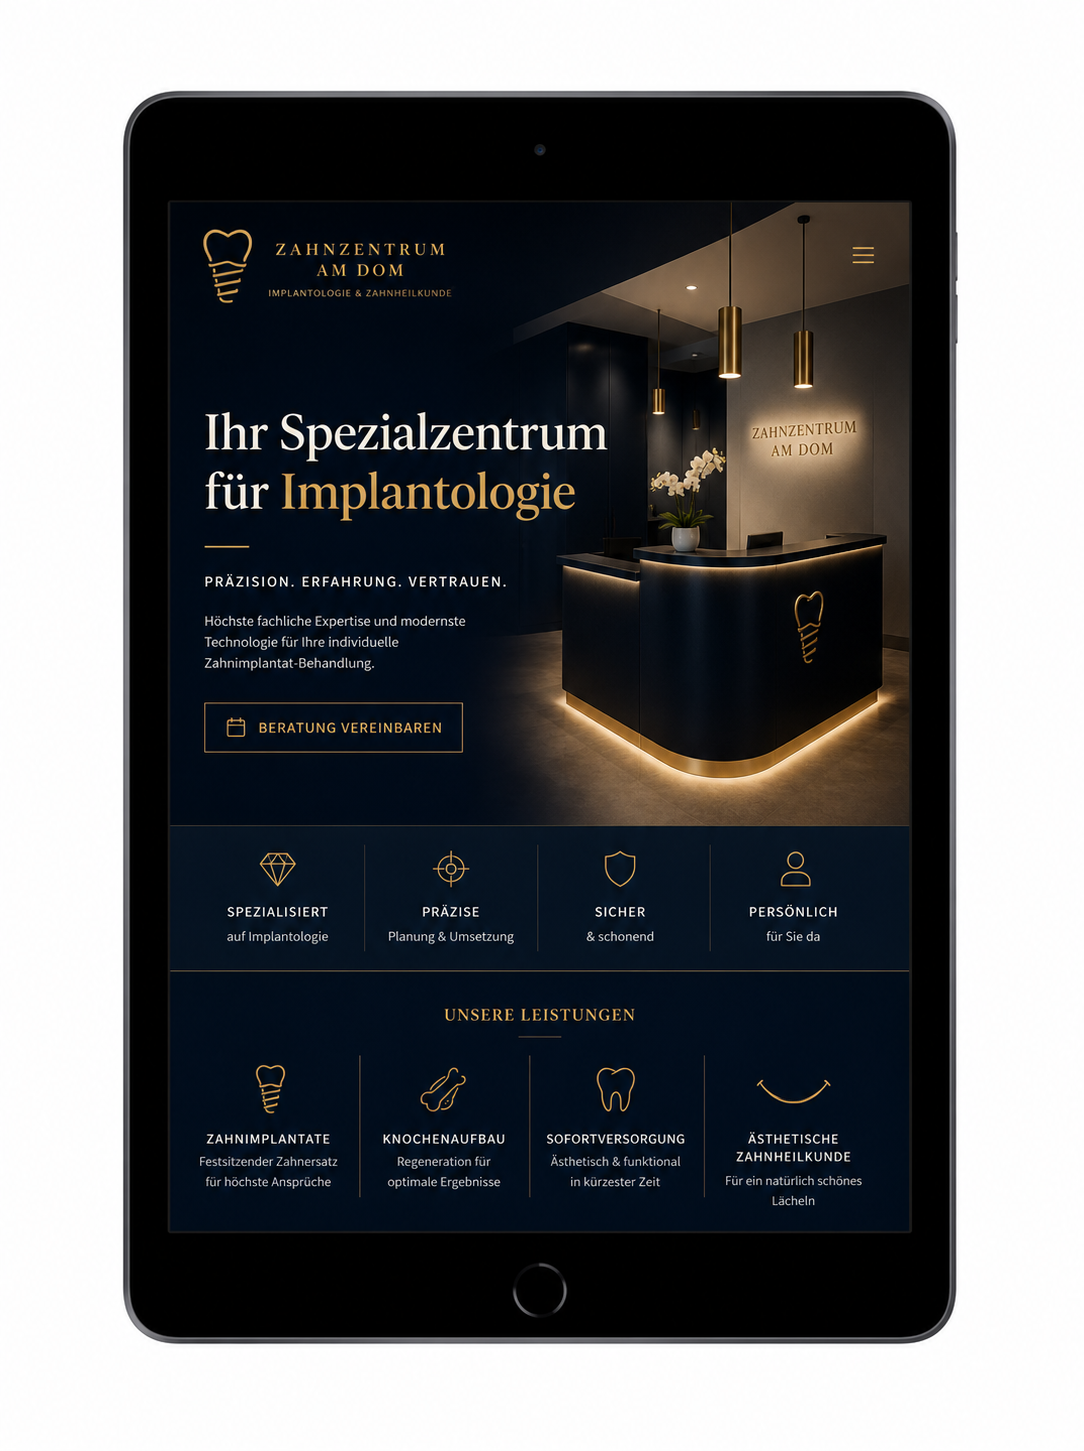
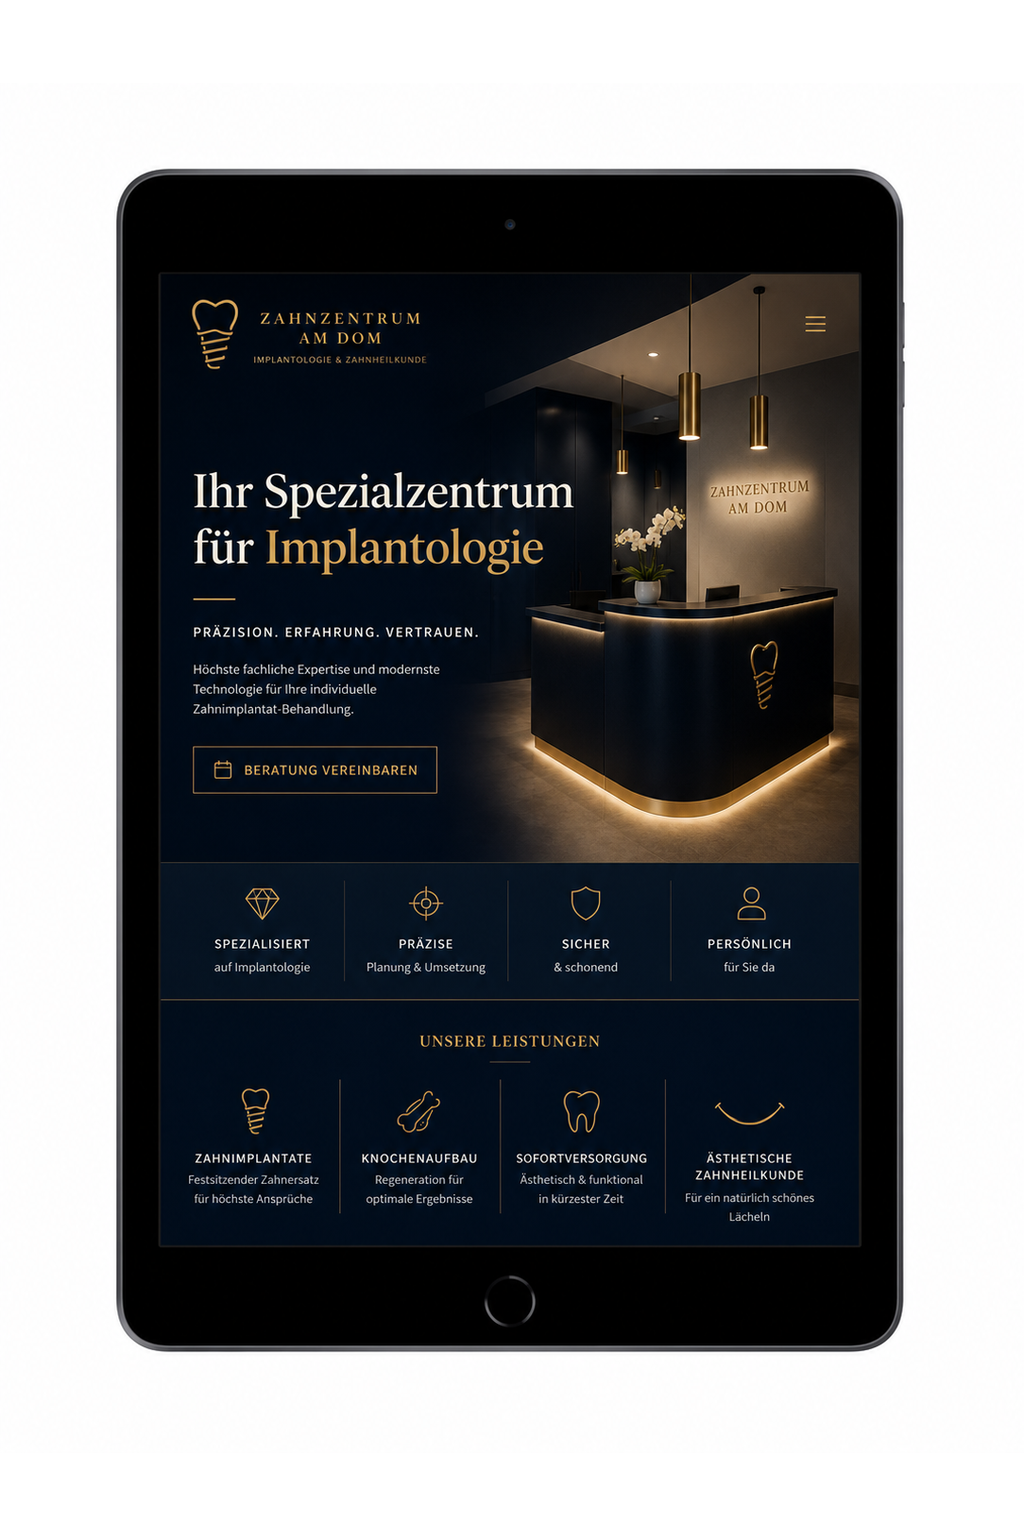
fix: normalize ipad-3 to 1024x1536 + lock example-tablet to 2:3 aspect ratio
All 3 iPads now same dimensions and render identically in the grid.

diff --git a/index.html b/index.html
@@ -73,9 +73,9 @@
     @media(max-width:820px){.examples-grid{grid-template-columns:1fr;}}
     @media(min-width:500px) and (max-width:820px){.examples-grid{grid-template-columns:repeat(2,1fr);}}
     .example-card{display:flex;flex-direction:column;gap:14px;}
-    .example-tablet{background:transparent;border-radius:0;padding:0;box-shadow:none;overflow:visible;}
+    .example-tablet{background:transparent;border-radius:0;padding:0;box-shadow:none;overflow:hidden;aspect-ratio:2/3;}
     .example-tablet::before{display:none;}
-    .example-tablet img{border-radius:0;width:100%;height:auto;display:block;}
+    .example-tablet img{border-radius:0;width:100%;height:100%;display:block;object-fit:contain;}
     .example-tag{display:inline-block;background:var(--green-soft);color:var(--green);font-size:12px;font-weight:600;letter-spacing:.04em;text-transform:uppercase;padding:4px 11px;border-radius:999px;}
     .example-card h3{font-size:17px;font-weight:700;margin:2px 0 0;color:var(--ink);}
     .example-card p{font-size:13.5px;color:var(--muted);margin:0;line-height:1.5;}
